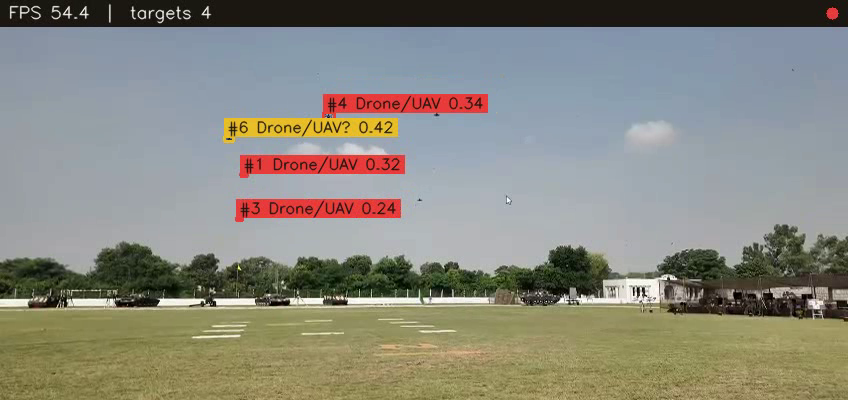
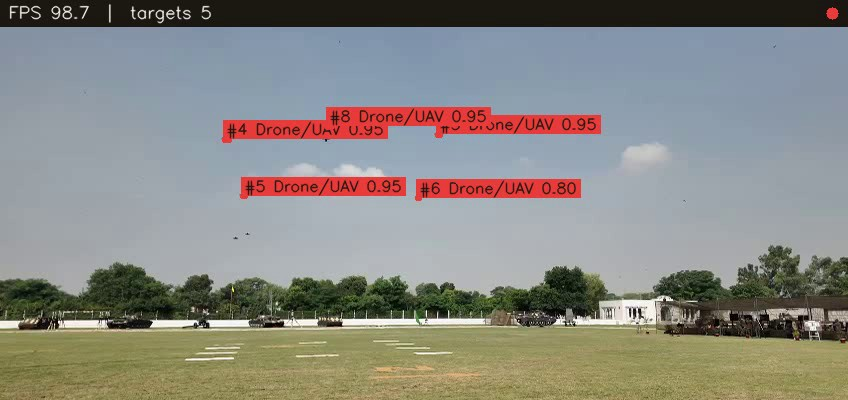
Add swarm engine: individual small-drone detection against sky
Detects each small dark drone floating in open sky as its own target, so a
whole group is tracked individually rather than as one blob, and ground
clutter stays out.

- skymotion.py: rewrite as a sky-object detector. A target must be (1) a
  small compact dark blob, (2) surrounded by bright bluish sky - rejecting
  white/neutral man-made surfaces, (3) above the per-column skyline -
  rejecting vehicles/buildings/markings, and (4) floating with a clear-sky
  margin on all four sides - rejecting gaps and windows in structures.
- tracker.py: fix _match_by_distance so one detection matches only one track
  (used_d was never populated), which stacked duplicate boxes on clustered
  drones and inflated the target count.
- config.py/run.py: "swarm" (Small / multi-drone) engine wiring.

On the field test clip (swarm over a field with vehicles and buildings):
per-frame target count is a stable ~5-7 real drones with no ground or cloud
false positives, down from ~1000/frame of noise before.

diff --git a/skysentinel/skymotion.py b/skysentinel/skymotion.py
@@ -1,0 +1,105 @@
+"""Sky-object detector: finds small dark objects floating in open sky.
+
+A drone (or any UAV) seen from the ground is a small, compact dark shape against
+a much brighter sky. That holds whether it is moving or hovering, and each object
+shows up separately, so a whole group is picked up as individual targets rather
+than one blob. The detector works from brightness contrast (not motion), so
+hovering drones are not lost, and it keeps ground clutter out with three guards:
+
+* sky is defined as *bright and bluish*, which rejects bright man-made surfaces
+  (white/neutral walls) that a brightness-only test would mistake for sky;
+* a target must sit above the per-column skyline, which rejects vehicles,
+  buildings and ground markings below the horizon;
+* a target must float in open sky - a mostly-sky ring around it and a clear-sky
+  margin on all four sides - which rejects gaps and windows inside structures.
+
+Stateless per frame; called once per processed frame like any detector.
+"""
+
+from __future__ import annotations
+
+from typing import List, Tuple
+
+import numpy as np
+
+
+class SkyMotionDetector:
+    def __init__(self, min_area: int = 3, max_area_ratio: float = 0.02,
+                 contrast: int = 28, sky_brightness: int = 120, blur: int = 35,
+                 ring: int = 6, ring_sky_frac: float = 0.90, margin: int = 14,
+                 blue_min: int = 6):
+        self.min_area = min_area
+        self.max_area_ratio = max_area_ratio
+        self.contrast = contrast              # how much darker than local sky to count
+        self.sky_brightness = sky_brightness  # a region is "sky" if this bright...
+        self.blue_min = blue_min              # ...and this much bluer than it is red
+        self.blur = blur | 1                  # odd kernel for the local-sky estimate
+        self.ring = ring                      # px band checked around each blob
+        self.ring_sky_frac = ring_sky_frac    # fraction of that band that must be sky
+        self.margin = margin                  # clear-sky reach required on each side
+
+    def detect(self, frame_bgr: np.ndarray) -> Tuple[np.ndarray, np.ndarray, List[str]]:
+        import cv2
+
+        h, w = frame_bgr.shape[:2]
+        gray = cv2.cvtColor(frame_bgr, cv2.COLOR_BGR2GRAY)
+        k = min(self.blur, (min(h, w) // 2) * 2 - 1) if min(h, w) > 4 else 3
+        local = cv2.blur(gray, (k, k)).astype(np.int16)     # local sky brightness
+        diff = local - gray.astype(np.int16)                # >0 where a dark object sits on lighter sky
+
+        br = frame_bgr[:, :, 0].astype(np.int16) - frame_bgr[:, :, 2]   # B - R, >0 = bluish
+        blue_local = cv2.blur(br, (k, k))
+        # per-pixel sky (ring / margin tests) and local sky (candidates / skyline)
+        is_sky = (gray > self.sky_brightness) & (br >= self.blue_min)
+        local_sky = (local > self.sky_brightness) & (blue_local >= self.blue_min)
+        skymask = is_sky.astype(np.uint8)
+
+        # Skyline per column: scan down the local sky and mark where continuous
+        # sky from the top ends. Targets must sit above it.
+        horizon = np.full(w, h, np.int32)
+        cols = local_sky
+        for cx in range(w):
+            nz = np.where(~cols[:, cx])[0]
+            if nz.size:
+                horizon[cx] = nz[0]
+        horizon = cv2.blur(horizon.reshape(1, -1).astype(np.float32), (1, 31)).ravel()
+
+        cand = ((diff > self.contrast) & local_sky).astype(np.uint8) * 255
+        cand = cv2.morphologyEx(cand, cv2.MORPH_OPEN, np.ones((2, 2), np.uint8))
+        contours, _ = cv2.findContours(cand, cv2.RETR_EXTERNAL, cv2.CHAIN_APPROX_SIMPLE)
+
+        max_area = self.max_area_ratio * w * h
+        r, m = self.ring, self.margin
+        boxes, scores = [], []
+        for c in contours:
+            area = cv2.contourArea(c)
+            if area < self.min_area or area > max_area:
+                continue
+            x, y, bw, bh = cv2.boundingRect(c)
+            if max(bw, bh) > 6 * max(min(bw, bh), 1):        # drop long thin streaks (wires/edges)
+                continue
+            cx, cy = x + bw // 2, y + bh // 2
+            # above the skyline for its column (small tolerance)
+            if y + bh > horizon[cx] - 4:
+                continue
+            # tight ring around the blob must be mostly sky
+            x0, y0 = max(0, x - r), max(0, y - r)
+            x1, y1 = min(w, x + bw + r), min(h, y + bh + r)
+            ring_px = (y1 - y0) * (x1 - x0) - bw * bh
+            ring_sky = int(skymask[y0:y1, x0:x1].sum()) - int(skymask[y:y + bh, x:x + bw].sum())
+            if ring_px <= 0 or ring_sky / ring_px < self.ring_sky_frac:
+                continue
+            # clear-sky margin on all four sides (open-air target, not a gap in clutter)
+            up    = skymask[max(0, y - m):y, cx]
+            down  = skymask[y + bh:min(h, y + bh + m), cx]
+            left  = skymask[cy, max(0, x - m):x]
+            right = skymask[cy, x + bw:min(w, x + bw + m)]
+            if min((s.mean() if s.size else 0.0) for s in (up, down, left, right)) < 0.80:
+                continue
+            contrast = float(diff[y:y + bh, x:x + bw].max())
+            boxes.append([x, y, x + bw, y + bh])
+            scores.append(float(min(0.95, 0.3 + contrast / 160.0)))
+
+        if not boxes:
+            return np.zeros((0, 4), np.float32), np.zeros((0,), np.float32), []
+        return np.asarray(boxes, np.float32), np.asarray(scores, np.float32), ["drone"] * len(boxes)

diff --git a/skysentinel/tracker.py b/skysentinel/tracker.py
@@ -27,12 +27,18 @@ class Track:
 
 
 class IoUTracker:
-    def __init__(self, max_age: int = 30, iou_thresh: float = 0.3, min_hits: int = 3):
+    def __init__(self, max_age: int = 30, iou_thresh: float = 0.3, min_hits: int = 3,
+                 max_dist: float = 90.0):
         self.max_age = max_age
         self.iou_thresh = iou_thresh
         self.min_hits = min_hits
+        self.max_dist = max_dist     # px gate for matching by centroid when boxes don't overlap
         self._next_id = 1
         self.tracks: List[Track] = []
+
+    @staticmethod
+    def _centroid(box):
+        return ((box[0] + box[2]) / 2.0, (box[1] + box[3]) / 2.0)
 
     def update(self, boxes: np.ndarray, scores: np.ndarray, labels: List[str]) -> List[Track]:
         for t in self.tracks:
@@ -43,6 +49,9 @@ class IoUTracker:
             track_boxes = np.array([t.box for t in self.tracks], dtype=np.float32)
             ious = iou_matrix(track_boxes, np.asarray(boxes, np.float32))
             matched_t, matched_d = self._greedy_match(ious)
+            # Second pass: a small, fast drone can move farther than its own
+            # size between frames (zero IoU), so match leftovers by centroid.
+            self._match_by_distance(track_boxes, boxes, matched_t, matched_d)
         else:
             matched_t, matched_d = {}, set()
 
@@ -68,6 +77,29 @@ class IoUTracker:
 
         self.tracks = [t for t in self.tracks if t.time_since_update <= self.max_age]
         return [t for t in self.tracks if t.confirmed and t.time_since_update == 0]
+
+    def _match_by_distance(self, track_boxes, boxes, matched_t: "Dict[int,int]", matched_d: set) -> None:
+        free_t = [i for i in range(len(track_boxes)) if i not in matched_t]
+        free_d = [j for j in range(len(boxes)) if j not in matched_d]
+        if not free_t or not free_d:
+            return
+        tc = [self._centroid(track_boxes[i]) for i in free_t]
+        dc = [self._centroid(boxes[j]) for j in free_d]
+        pairs = []
+        for a, ti in enumerate(free_t):
+            for b, di in enumerate(free_d):
+                dist = ((tc[a][0] - dc[b][0]) ** 2 + (tc[a][1] - dc[b][1]) ** 2) ** 0.5
+                if dist <= self.max_dist:
+                    pairs.append((dist, ti, di))
+        pairs.sort()
+        used_t, used_d = set(), set()
+        for _, ti, di in pairs:
+            if ti in used_t or di in used_d:
+                continue
+            matched_t[ti] = di
+            matched_d.add(di)
+            used_t.add(ti)
+            used_d.add(di)      # one detection matches one track only (no duplicates)
 
     def _greedy_match(self, ious: np.ndarray):
         matched_t: Dict[int, int] = {}

diff --git a/skysentinel/config.py b/skysentinel/config.py
@@ -47,6 +47,11 @@ ENGINE_PRESETS = {
     "accurate": {"label": "Accurate", "weights": "yolo11m.pt", "imgsz": 960, "stride": 2},
     "longrange": {"label": "Long-range", "weights": "yolo11m.pt", "imgsz": 640, "stride": 2,
                   "tile": True, "tile_size": 416},
+    # Motion-first mode: every small object moving against the sky is detected
+    # individually (each gets its own box + track ID), so all drones in a group
+    # are picked up separately. The bird filter is off so nothing is dropped.
+    "swarm": {"label": "Small / multi-drone", "weights": "yolo11s.pt", "imgsz": 640, "stride": 1,
+              "sky_motion": True, "no_bird_filter": True, "appearance": False},
 }
 
 
@@ -64,9 +69,12 @@ class Config:
     frame_stride: int = 1                # run detection every Nth frame; track in between
     target_fps: int = 0                  # 0 = as fast as possible
     motion_fallback: bool = True         # use motion detector when no model weight loads
+    sky_motion: bool = False             # add the sky-object detector (small dark sky targets = drones)
+    use_appearance: bool = True          # run the YOLO model(s); off = sky-detector only (no ground clutter)
     track_max_age: int = 30
     track_iou: float = 0.3
     track_min_hits: int = 3
+    track_max_dist: float = 90.0         # px gate for matching fast small movers by centroid
     trajectory_classify: bool = True     # tell drones from birds by how they move
     trajectory_min_len: int = 8          # frames of history before judging motion
     flap_verify: bool = True             # second check: reject wing-flapping birds
@@ -112,6 +120,14 @@ class Config:
                                    tile=preset.get("tile", False), tile_size=preset.get("tile_size", 416))]
         self.frame_stride = preset["stride"]
         self.min_support = 1
+        self.sky_motion = preset.get("sky_motion", False)
+        self.use_appearance = preset.get("appearance", True)
+        if preset.get("no_bird_filter"):
+            # motion-first mode: treat every small sky mover as a drone
+            self.trajectory_classify = False
+            self.flap_verify = False
+            self.track_min_hits = 2
+            self.track_max_dist = 140.0
         return self
 
     def apply_mode(self, mode: str) -> "Config":

diff --git a/skysentinel/models.py b/skysentinel/models.py
@@ -13,6 +13,7 @@ from .config import Config, ModelConfig
 from .detector import YoloDetector
 from .ensemble import Ensemble
 from .motion import MotionDetector
+from .skymotion import SkyMotionDetector
 
 log = logging.getLogger("skysentinel.models")
 
@@ -28,15 +29,30 @@ class MotionAdapter:
         return self._m.detect(frame)
 
 
+class SkyMotionAdapter:
+    """Sky-motion detector as an ensemble member (small sky movers = drones)."""
+
+    def __init__(self, weight: float = 1.0):
+        self._m = SkyMotionDetector()
+        self.cfg = ModelConfig(name="sky-motion", weights="(sky-motion)", weight=weight, conf=0.0)
+
+    def detect(self, frame):
+        return self._m.detect(frame)
+
+
 def build_detectors(cfg: Config) -> List:
     detectors = []
-    for m in cfg.enabled_models():
-        d = YoloDetector(m, device=cfg.device, half=cfg.half)
-        if d.load():
-            log.info("loaded model %s (%s) on %s", m.name, m.weights, d.device)
-            detectors.append(d)
-        else:
-            log.warning("could not load model %s (%s) - skipping", m.name, m.weights)
+    if cfg.use_appearance:
+        for m in cfg.enabled_models():
+            d = YoloDetector(m, device=cfg.device, half=cfg.half)
+            if d.load():
+                log.info("loaded model %s (%s) on %s", m.name, m.weights, d.device)
+                detectors.append(d)
+            else:
+                log.warning("could not load model %s (%s) - skipping", m.name, m.weights)
+    if cfg.sky_motion:
+        log.info("sky-motion detector enabled (small sky movers treated as drones)")
+        detectors.append(SkyMotionAdapter())
     if not detectors and cfg.motion_fallback:
         log.warning("no neural models available - using motion-detection fallback")
         detectors.append(MotionAdapter())

diff --git a/skysentinel/pipeline.py b/skysentinel/pipeline.py
@@ -35,7 +35,7 @@ class DetectionPipeline:
         self.ensemble = ensemble
         self.cfg = cfg
         self.name = name
-        self.tracker = IoUTracker(cfg.track_max_age, cfg.track_iou, cfg.track_min_hits)
+        self.tracker = IoUTracker(cfg.track_max_age, cfg.track_iou, cfg.track_min_hits, cfg.track_max_dist)
         self.classifier = TrajectoryClassifier(min_len=cfg.trajectory_min_len) if cfg.trajectory_classify else None
         self.flap = FlapVerifier(cfg.flap_min_len, cfg.flap_strength) if cfg.flap_verify else None
         self._i = 0
@@ -72,6 +72,10 @@ class DetectionPipeline:
                         t.kind, t.kind_score = "bird", max(t.kind_score, t.flap)
             if self.cfg.drones_only:
                 tracks = [t for t in tracks if t.kind != "bird"]
+        else:
+            # Motion-first mode (no bird filter): every confirmed track is a drone.
+            for t in tracks:
+                t.kind = "drone"
         self._tick_fps()
         if draw:
             draw_tracks(frame, tracks)

diff --git a/run.py b/run.py
@@ -75,8 +75,8 @@ def main(argv=None) -> int:
         sp.add_argument("--config")
         sp.add_argument("--device")
         sp.add_argument("--mode", choices=["fast", "balanced", "precise"], help="performance preset")
-        sp.add_argument("--engine", choices=["fastest", "balanced", "accurate", "longrange"],
-                        help="detection model (longrange = tiled, best for small drones)")
+        sp.add_argument("--engine", choices=["fastest", "balanced", "accurate", "longrange", "swarm"],
+                        help="detection model (longrange = tiled small drones; swarm = motion-first, small movers)")
         sp.add_argument("--turbo", action="store_true", help="maximum speed: single nano model at 512px")
         sp.add_argument("--max-fps", type=float, dest="max_fps", help="cap processing FPS (0 = uncapped)")
         sp.add_argument("--stride", type=int)
